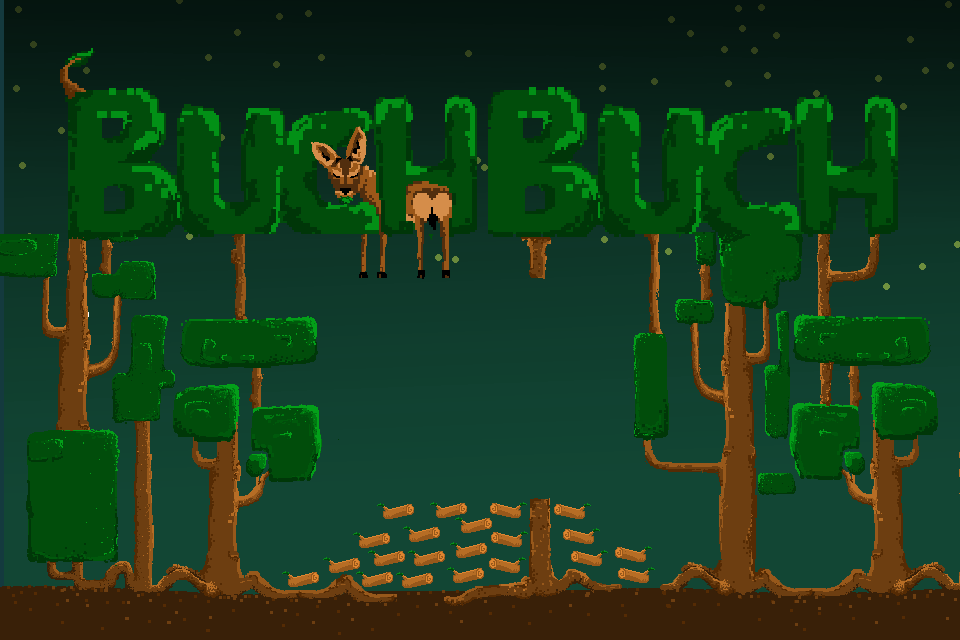
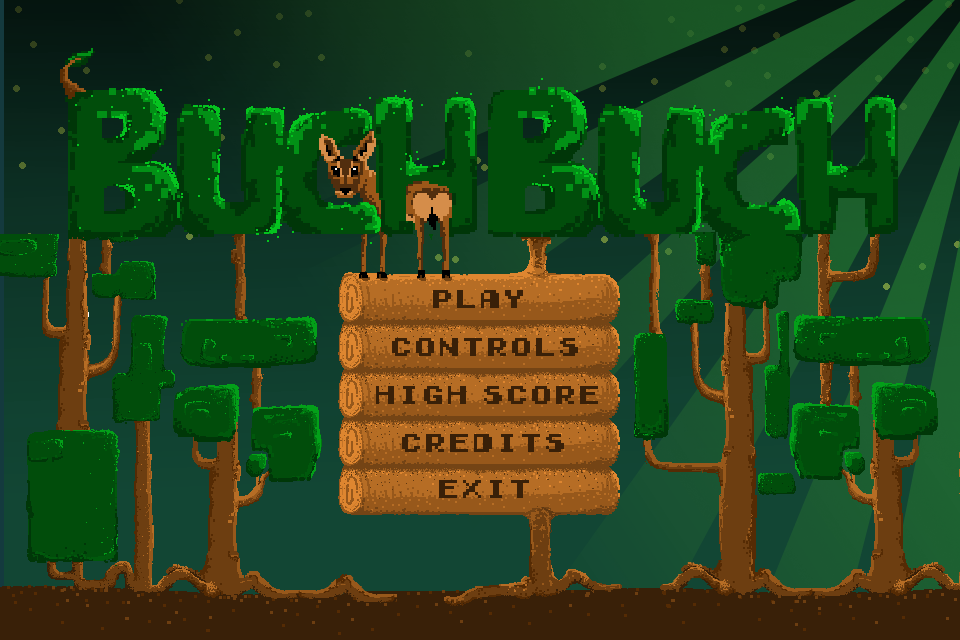
add background image

diff --git a/src/com/buchbuchteam/buchbuch/view/screens/MenuScreen.java b/src/com/buchbuchteam/buchbuch/view/screens/MenuScreen.java
@@ -1,4 +1,7 @@
 package com.buchbuchteam.buchbuch.view.screens;
+import com.badlogic.gdx.Gdx;
+import com.badlogic.gdx.graphics.Texture;
+import com.badlogic.gdx.graphics.g2d.Animation;
 import com.badlogic.gdx.graphics.g2d.Sprite;
 import com.buchbuchteam.buchbuch.view.Game;
 
@@ -25,15 +28,11 @@ public class MenuScreen extends ScreenMaster {
 
 
 	public MenuScreen() {
-		super("img/menu/bgmenu.png");
+		super("img/menu/bgmenu.png", "img/menu");
 		
 		curseur = new CursorMenu("img/menu/cursor.png");
 		
-		boutonJouer = new BoutonMenu("img/menu/jouerbutton.png", jouerY, true, 1);
-		boutonControl = new BoutonMenu("img/menu/controlbutton.png", controlY, false, 2);
-		boutonHightScore = new BoutonMenu("img/menu/hightscorebutton.png", hightscoreY, false, 3);
-		boutonCredits = new BoutonMenu("img/menu/creditsbutton.png", creditsY, false, 4);
-		boutonQuitter = new BoutonMenu("img/menu/quitterbutton.png", quitterY, false, 5);
+		
 		
 		
 		
@@ -44,20 +43,29 @@ public class MenuScreen extends ScreenMaster {
 	
 	}
 	
+	private static Animation bgAnim;
+	{
+				Sprite[] bgFrames = new Sprite[2];
+		bgFrames[0] = new Sprite(new Texture(
+				Gdx.files.internal("img/menu/bgmenu.png")), 0,
+				0, 128, 128);
+		bgFrames[1] = new Sprite(new Texture(
+				Gdx.files.internal("img/menu/bgmenu2.png")), 0,
+				0, 128, 128);
+		bgAnim = new Animation(0.2F, bgFrames);
+		bgAnim.setPlayMode(Animation.LOOP);
+	}
+	
 	
 	public void render(float delta) {
-		
+
 
 		super.bgRender();
 		
 		curseur.CursorRender();
 		curseur.Choose();
 		
-		boutonJouer.BoutonRender();
-		boutonControl.BoutonRender();
-		boutonHightScore.BoutonRender();
-		boutonCredits.BoutonRender();
-		boutonQuitter.BoutonRender();
+		
 		
 		
 		

diff --git a/src/com/buchbuchteam/buchbuch/view/screens/ScreenMaster.java b/src/com/buchbuchteam/buchbuch/view/screens/ScreenMaster.java
@@ -21,6 +21,7 @@ public abstract class ScreenMaster  implements Screen {
 		protected Stage stage; //BATCH DU SPRITE DE FOND
 		protected Sprite bgSprite; //SPRITE DE FOND
 		private String file; //CHEMIN DE L'IMAGE DE FOND
+		private String file1, file2;
 		private int bgWidth = Game.WIDTH, bgHeight = Game.HEIGHT, bgX = 0, bgY = 0; //VARIABLE IMAGE DE FOND
 
 		protected ScreenMaster(String file){
@@ -31,6 +32,20 @@ public abstract class ScreenMaster  implements Screen {
 			
 			stage = new Stage();
 			bgSprite = new Sprite(new Texture(Gdx.files.internal(file)), bgX, bgY, bgWidth, bgHeight);
+			
+			
+			
+			
+		}
+		protected ScreenMaster(String file1,String file2){
+			
+			camera = new OrthographicCamera();
+			this.file1 = file1;
+			this.file2 = file2;
+		
+			
+			stage = new Stage();
+			bgSprite = new Sprite(new Texture(Gdx.files.internal(file1)), bgX, bgY, bgWidth, bgHeight);
 			
 			
 			
